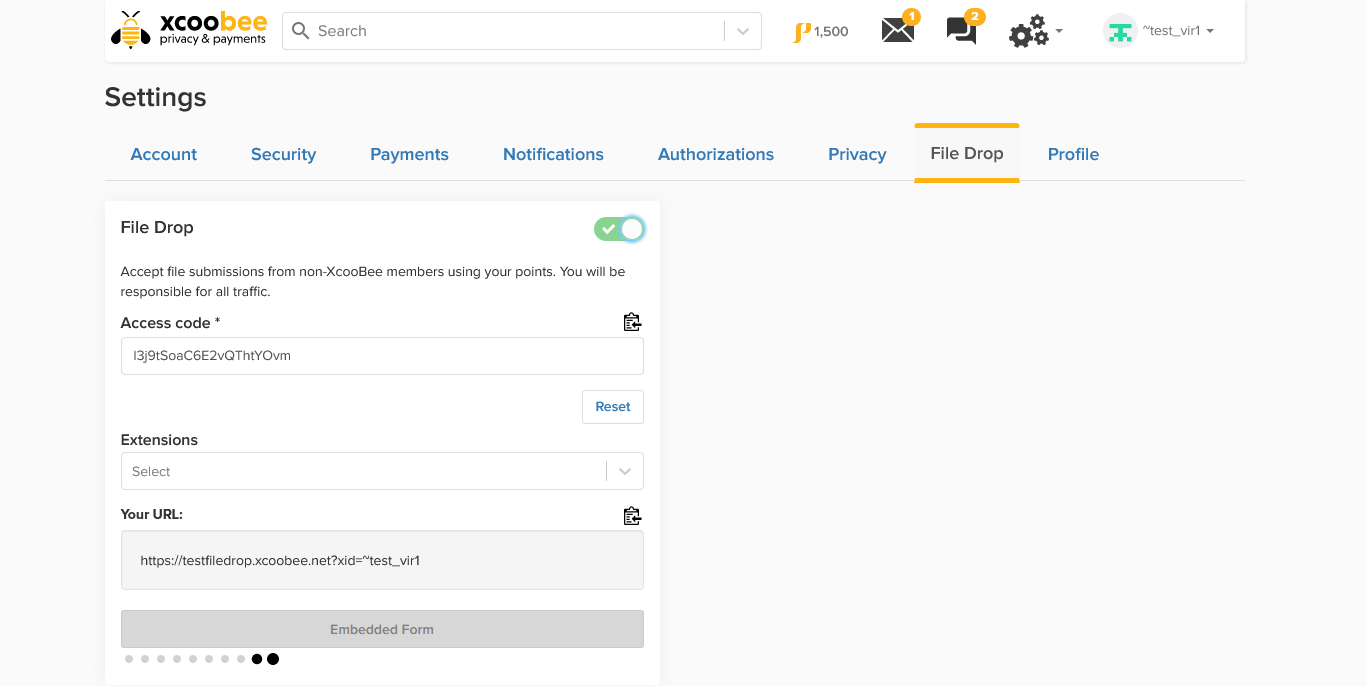
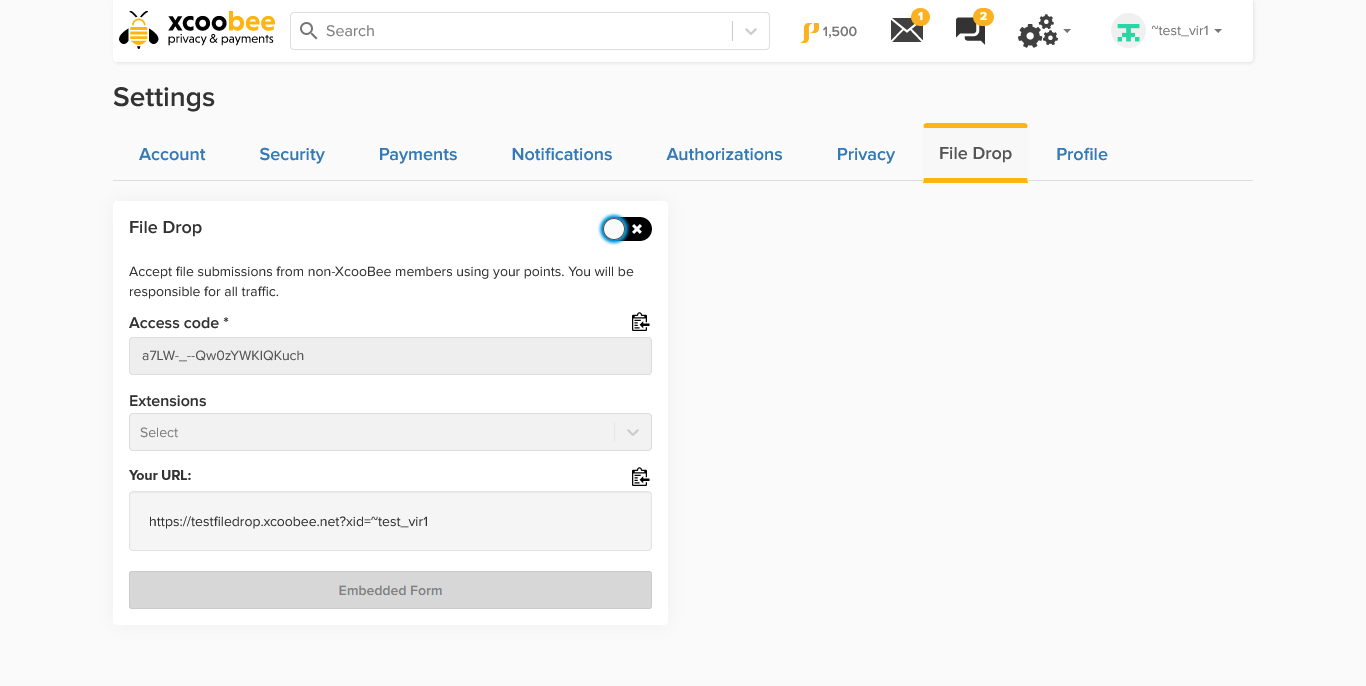
File drop module is completed

diff --git a/page-objects/filedropObject.js b/page-objects/filedropObject.js
@@ -23,6 +23,7 @@ module.exports = {
         width: "input[name=width]",
         height: "input[name=height]",
         closeButton: "div.modal-footer > button:nth-child(2) > span",
+        fileDropDisable: ".react-toggle-track-check"
     },
 
     commands: [{
@@ -70,8 +71,8 @@ module.exports = {
        verifyFileDropOptions: function() {
         return this
                 .click("@reactToggle")
-                // .pause(5000)
-                .waitForElementVisible(".modal-content", 5000)
+                .pause(5000)
+                .waitForElementVisible(".modal-content", 2000)
                 .assert.elementPresent("@modalDialog", "Verify the alert box")
                 .assert.containsText("@modalHeader", "Please confirm")
                 .assert.containsText("@modalButton", "OK")
@@ -80,12 +81,12 @@ module.exports = {
     
                 // Access code
                 .assert.elementPresent("@accessCode")
-                .assert.getText("@accessCode", function(result){
-                    var code = result.value;
-                    this.assert.value("@accessCode", code)
+                .getValue("@accessCode", function(result){
+                    code = result.value;
+                    console.log(`Access code is: ${code}`)
                 })
                 .click("@resetButton")
-                .assert.not.value("@accessCode", code)
+                // .assert.not.value("@accessCode", code)
 
                 // Verify the URL
                 .assert.containsText("@yourUrl", "https://testfiledrop.xcoobee.net?xid=~test_vir1")
@@ -93,15 +94,22 @@ module.exports = {
     
                 // "Embaded Form"
                 .click("@embeddedForm")
+                .waitForElementVisible("@modalTitle", 10000)
                 .assert.containsText("@modalTitle", "Embedded Form")
                 .click("@options")
+                .pause(2000)
                 .assert.valueContains("@width", "400px")
+                .clearValue("@width")
+                .pause(2000)
                 .setValue("@width", "500px")
                 .assert.valueContains("@height", "600px")
+                .clearValue("@height")
+                .pause(2000)
                 .setValue("@height", "700px")
                 .click("@closeButton")
-
-                .click("@reactToggle")
+                .pause(2000)
+                .click("@fileDropDisable")
+                .pause(5000)
 
     },
 

diff --git a/tests/filedrop.js b/tests/filedrop.js
@@ -1,7 +1,7 @@
 module.exports = {
     "@tags": ["filedrop"],
 
-    "Test Case 1: Verify the login page": (browser) => {
+    "Test Case 1: Verify the login element visibility": (browser) => {
         let page = browser.page.filedropObject()
 
         page.navigate()
@@ -31,6 +31,7 @@ module.exports = {
         page
             .verifyFileDropOptions()
             .saveScreenshot("./screenshots/" + "Filedropopton.png")
+            .end();
     },
 
 };
